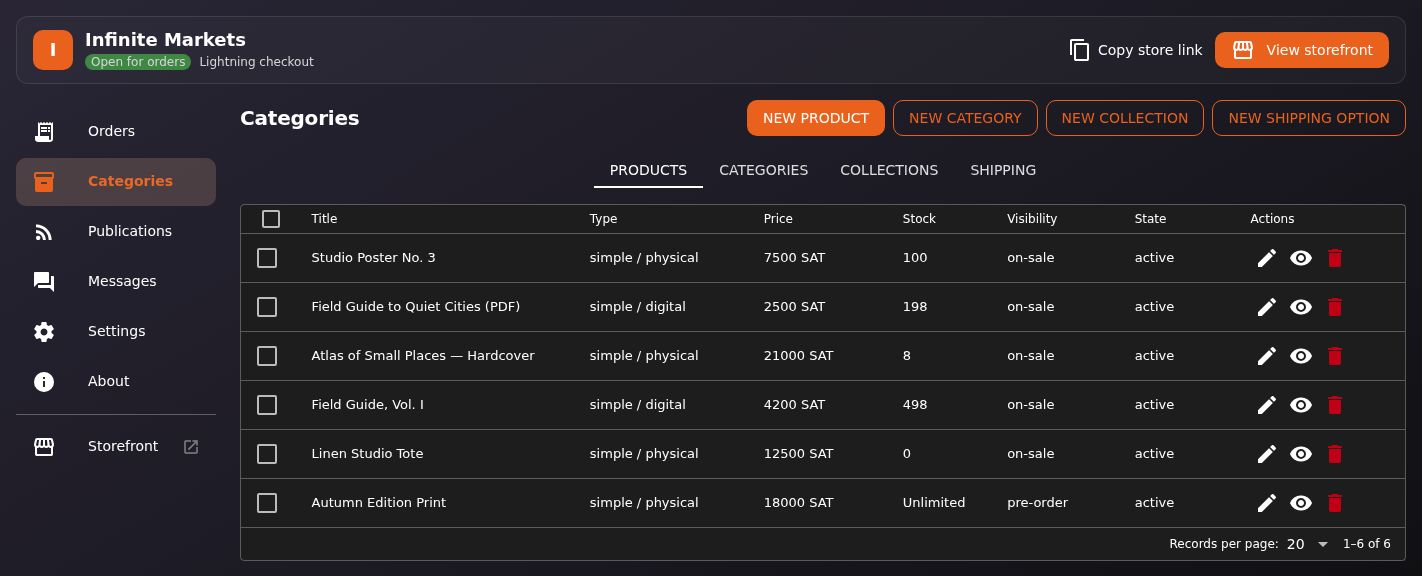
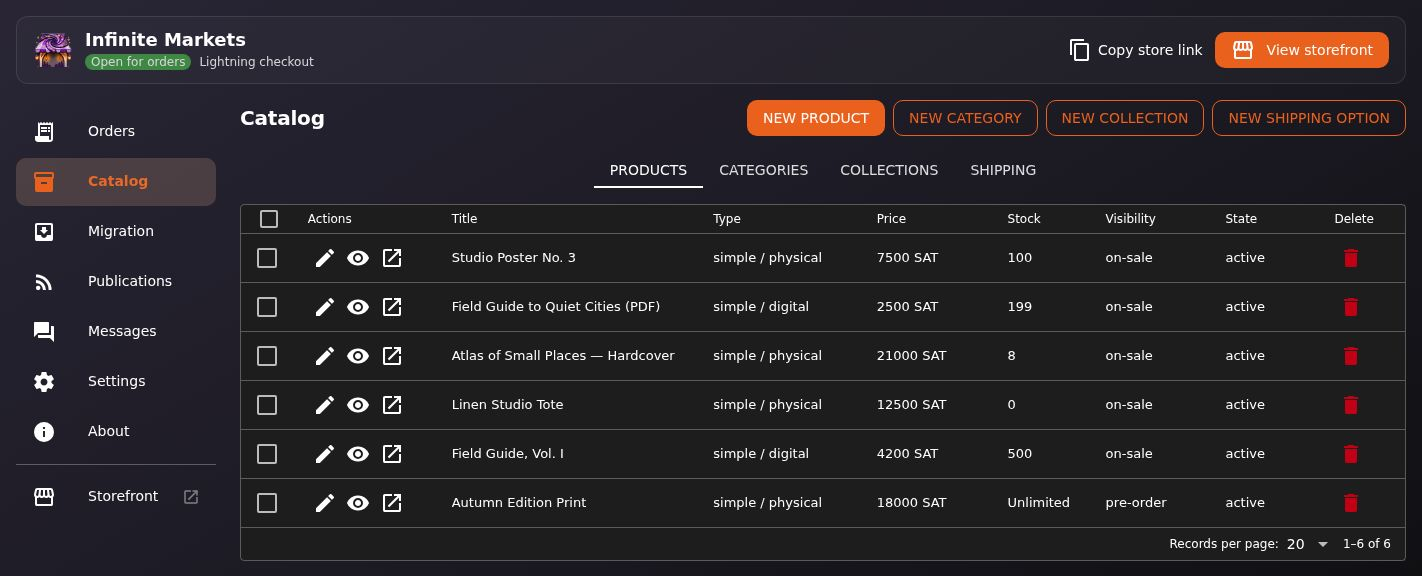
Refresh the Catalog screenshot
Restore the Catalog screenshot in the README and About tour with the
current sortable product workspace.

diff --git a/infinitemarkets/static/infinitemarkets/js/admin_about.js b/infinitemarkets/static/infinitemarkets/js/admin_about.js
@@ -14,6 +14,9 @@
       { file: "admin-orders.jpg", title: "Orders",
         caption: "Order workspace: search, filter and move orders through " +
                  "their states with a full audit trail." },
+      { file: "admin-categories.jpg", title: "Catalog",
+        caption: "Sortable products plus categories, collections and " +
+                 "shipping in one workspace." },
       { file: "admin-publications.jpg", title: "Publications",
         caption: "Relay health and every outbox entry with timestamps and " +
                  "per-relay delivery evidence." },

diff --git a/README.md b/README.md
@@ -19,7 +19,7 @@ An [LNbits](https://github.com/lnbits/lnbits) extension that gives a merchant on
 <table>
   <tr>
     <td><img src="infinitemarkets/static/infinitemarkets/img/screenshots/admin-orders.jpg" alt="Orders workspace"><br>Orders</td>
-    <td><strong>Catalog</strong><br>Manage products, categories, collections, and shipping.</td>
+    <td><img src="infinitemarkets/static/infinitemarkets/img/screenshots/admin-categories.jpg" alt="Catalog products table"><br>Catalog</td>
     <td><img src="infinitemarkets/static/infinitemarkets/img/screenshots/admin-publications.jpg" alt="Publications"><br>Publications</td>
   </tr>
   <tr>
